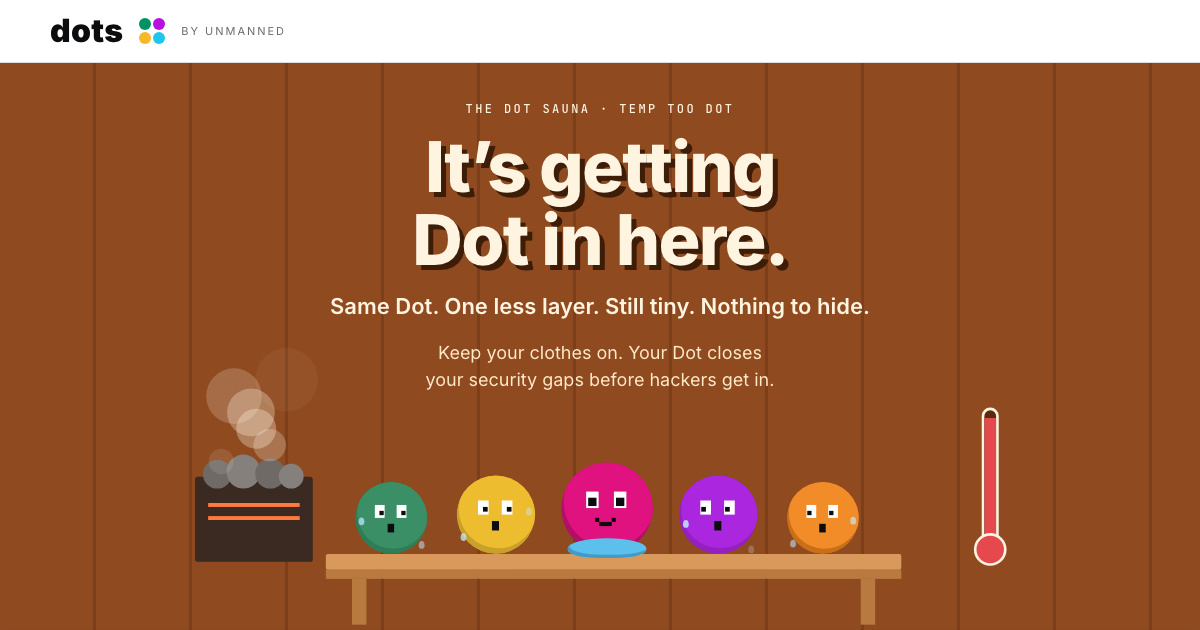
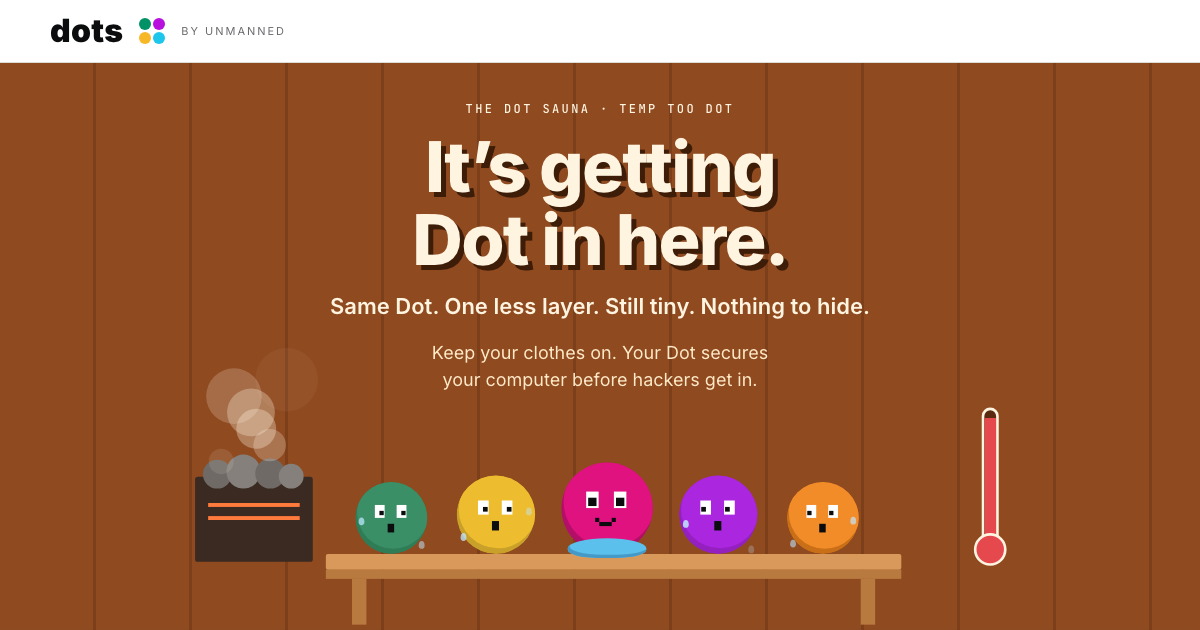
It’s getting Dot in here: plainer closing line

Changed region(s): [[0.3392, 0.5429, 0.6475, 0.6333]]

diff --git a/website/exp/dots-in-here/index.html b/website/exp/dots-in-here/index.html
@@ -4,11 +4,11 @@
 <meta charset="UTF-8">
 <meta name="viewport" content="width=device-width, initial-scale=1.0">
 <title>It’s getting Dot in here | Dots</title>
-<meta name="description" content="Keep your clothes on. Your Dot closes your security gaps before hackers get in. 99¢ a month.">
+<meta name="description" content="Keep your clothes on. Your Dot secures your computer before hackers get in. 99¢ a month.">
 <!-- A campaign experiment (2026-10-28): unlinked, shared by link only. Built by homepage-tools/build_dot_campaigns.py -->
 <meta name="robots" content="noindex">
 <meta property="og:title" content="It’s getting Dot in here | Dots" />
-<meta property="og:description" content="Keep your clothes on. Your Dot closes your security gaps before hackers get in. 99¢ a month." />
+<meta property="og:description" content="Keep your clothes on. Your Dot secures your computer before hackers get in. 99¢ a month." />
 <meta property="og:url" content="https://unmanned.team/exp/dots-in-here/" />
 <meta property="og:type" content="website" />
 <meta property="og:site_name" content="Unmanned" />
@@ -346,7 +346,7 @@
             <p>Five Dots. One sauna. Somebody had to make a move.</p>
             <p>Same Dot. One less layer. Still tiny. Nothing to hide.</p>
           </div>
-          <p class="hih-hook is-off" id="hih-hook">Keep your clothes on. Your Dot closes your security gaps before hackers get in.</p>
+          <p class="hih-hook is-off" id="hih-hook">Keep your clothes on. Your Dot secures your computer before hackers get in.</p>
         </div>
         <div class="stage-fit" style="--w:1280;--h:350" aria-hidden="true">
           <div class="stage" data-w="1280" data-h="350" style="width:1280px;height:350px">
